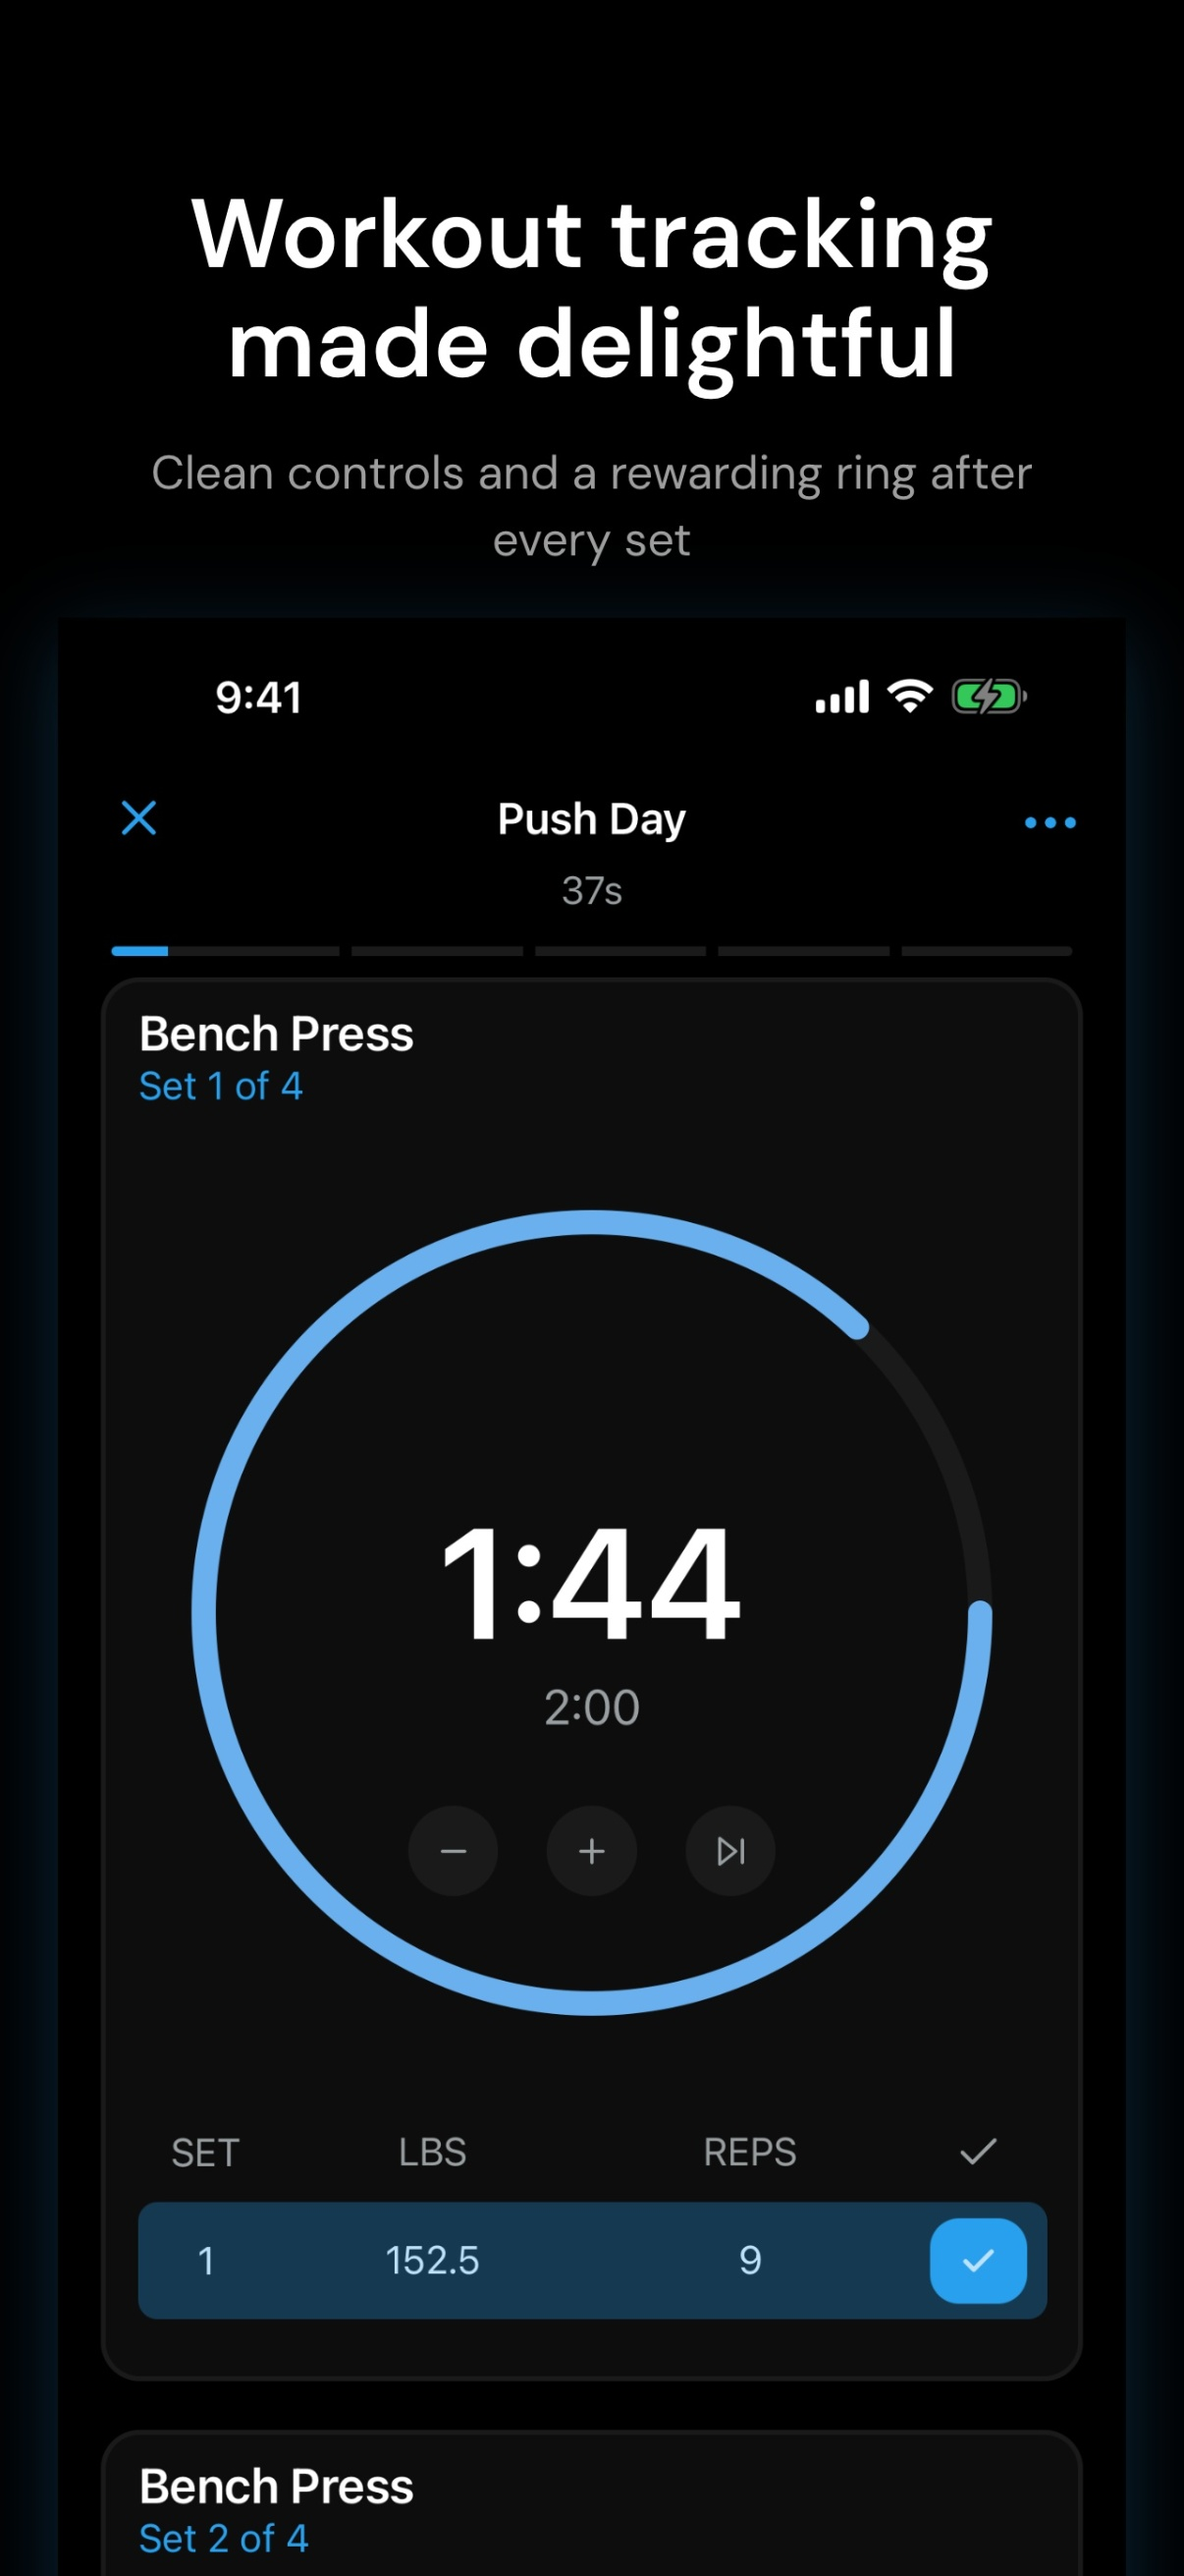
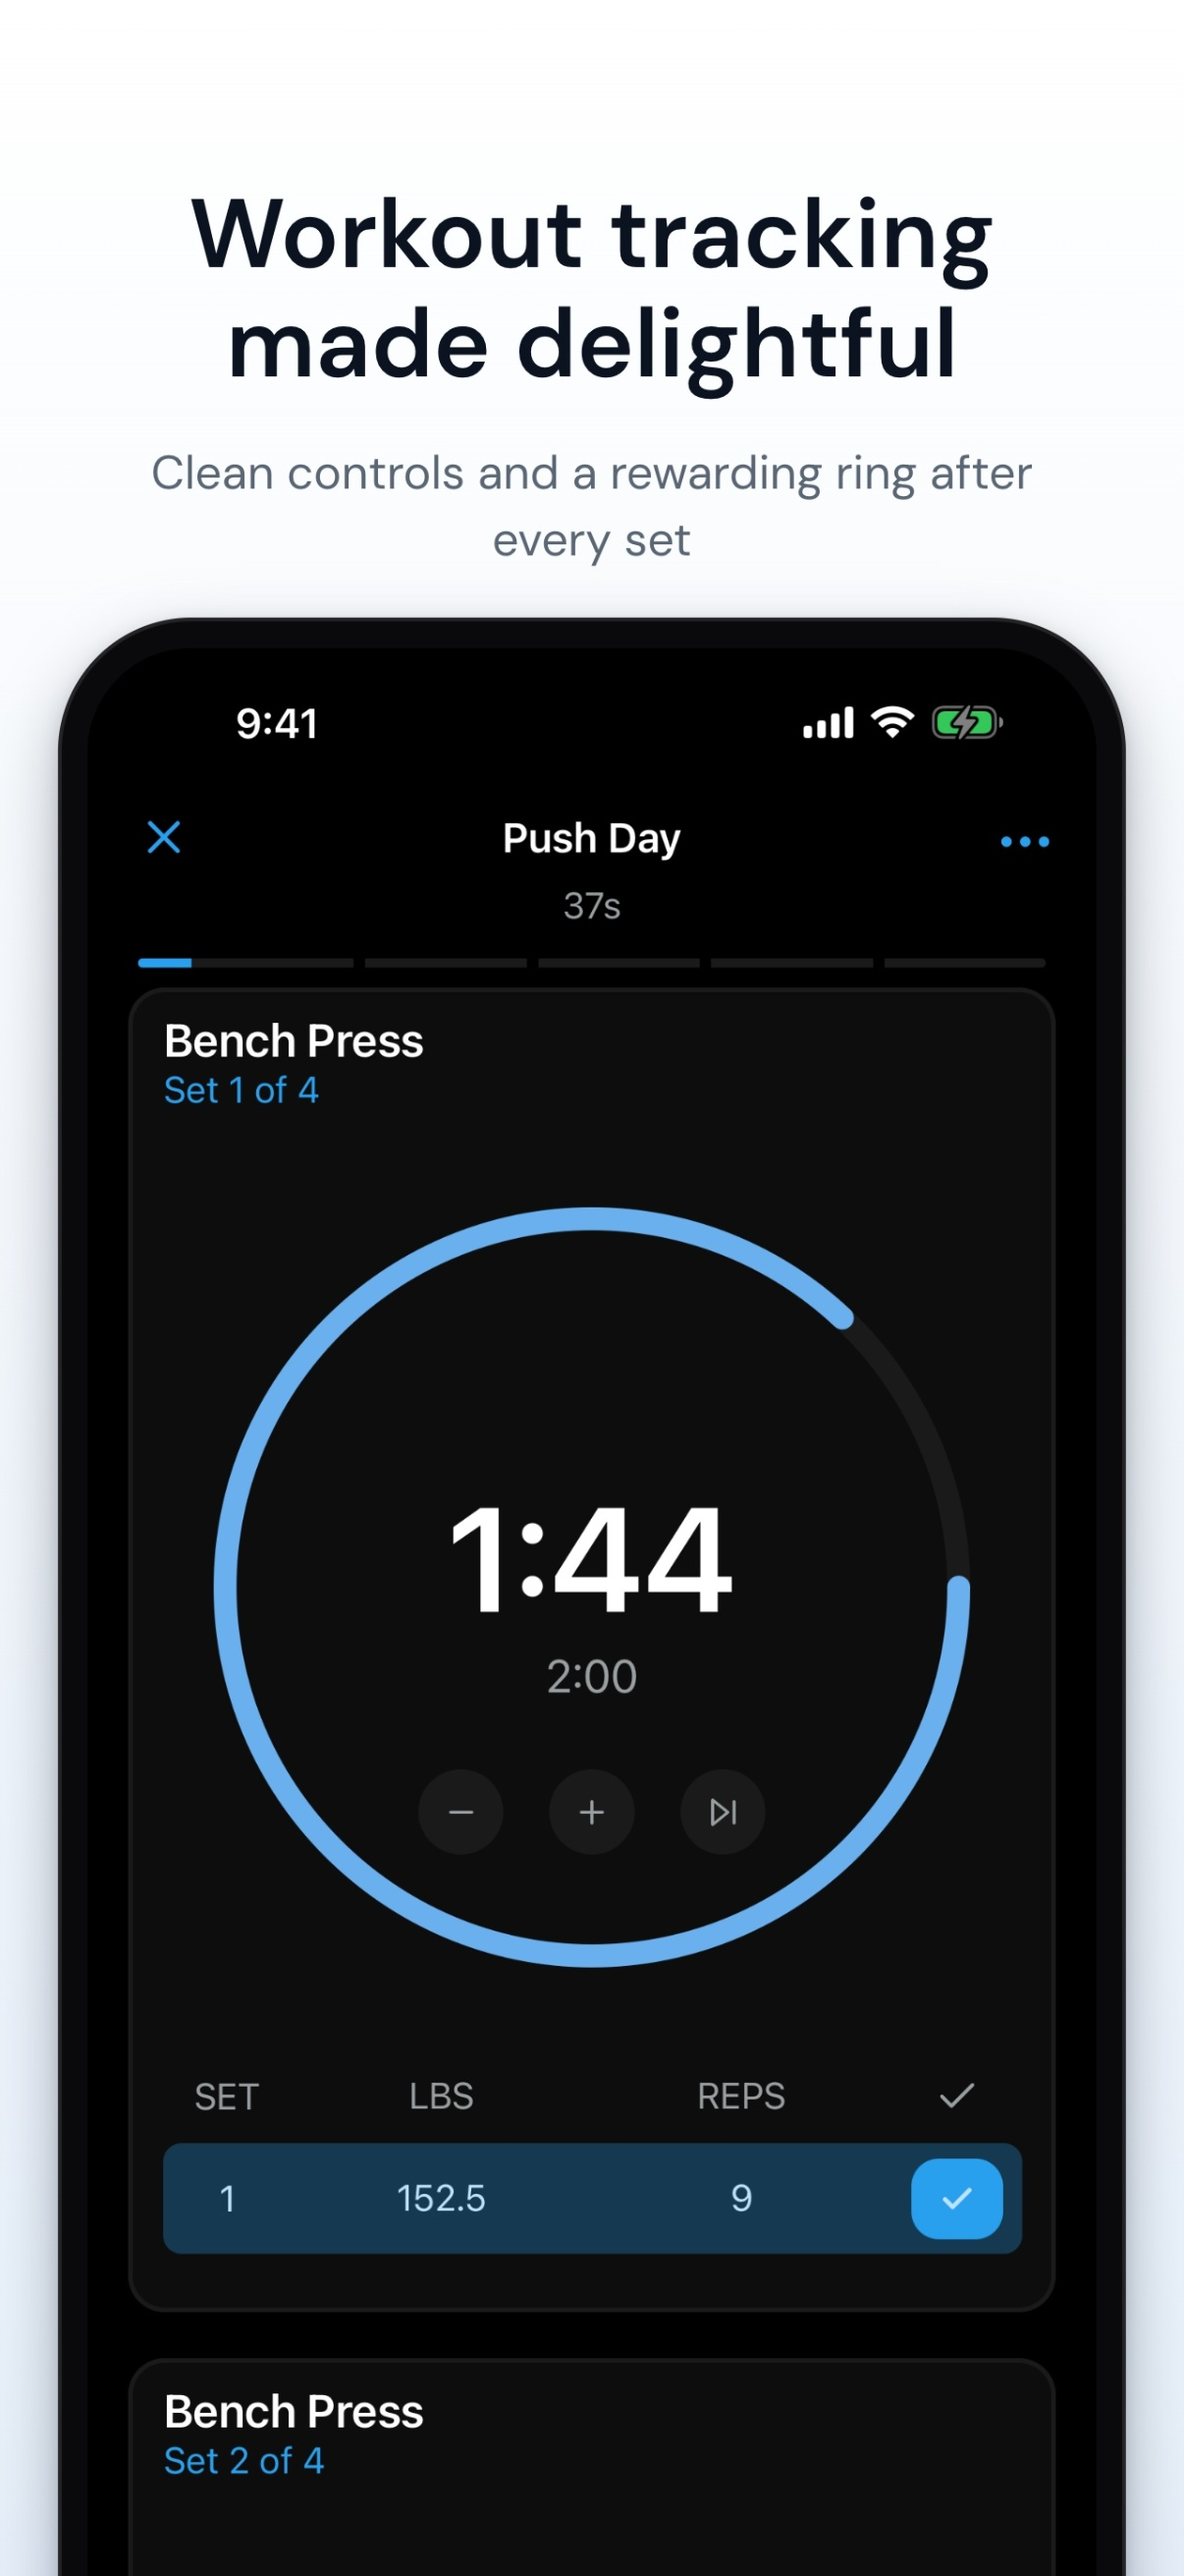
Add device bezel, light slide background, cut to four slides
Black screenshots on a black slide had no visible edge, so the device
never read as a device. Slides now use a light gradient with dark text,
and the screenshot is wrapped in a drawn bezel (simctl captures have no
bezel of their own).

Drops the Routines and Offline slides; Consistency renumbered to 4.

diff --git a/tools/app-store-screenshots/src/app/page.tsx b/tools/app-store-screenshots/src/app/page.tsx
@@ -23,11 +23,17 @@ const IPHONE_SIZES = [
 // Readloom's warm beige/olive palette.
 
 const ACCENT = "#28A0ED"; // darkColors.primaryAction
-const BG = "#000000"; // darkColors.appBackground
-const TEXT = "#ffffff"; // darkColors.primaryText
-const SUBTEXT = "rgba(255, 255, 255, 0.62)"; // muted version of darkColors.lightText
-const PHONE_FRAME = "#3F4147"; // darkColors.secondaryViewBorder — placeholder phone bezel
-const PHONE_SCREEN = "#27272F"; // darkColors.secondaryViewBackground — placeholder phone screen
+
+// The app itself is pure black, so the slide background must NOT be — a black
+// screenshot on a black slide has no visible edge. A light slide makes the
+// device read as a device and lets the blue accent carry the brand.
+const BG = "linear-gradient(180deg, #FFFFFF 0%, #E7F0FA 100%)";
+const TEXT = "#0B1220";
+const SUBTEXT = "#5B6675";
+
+const PHONE_BEZEL = "#0A0A0C"; // device body
+const PHONE_FRAME = "#3F4147"; // darkColors.secondaryViewBorder — placeholder outline
+const PHONE_SCREEN = "#27272F"; // darkColors.secondaryViewBackground — placeholder screen
 
 const SANS = "var(--font-dm-sans), -apple-system, BlinkMacSystemFont, 'Segoe UI', sans-serif";
 
@@ -165,21 +171,50 @@ function Screenshot({
     );
   }
 
+  // simctl captures are raw screen content with no bezel, so draw the device
+  // body here: a black frame with rounded corners, the screen clipped inside.
+  const bezel = width * 0.028;
+  const outerRadius = width * 0.125;
+  const innerRadius = outerRadius - bezel;
+
   return (
-    // eslint-disable-next-line @next/next/no-img-element
-    <img
-      src={src}
-      alt={label}
-      onError={() => setFailed(true)}
+    <div
       style={{
         width,
-        maxWidth: "none", // override Tailwind preflight's img { max-width: 100% }
-        height: "auto",
-        display: "block",
-        filter: `drop-shadow(0 22px 44px rgba(40, 160, 237, 0.25))`,
+        padding: bezel,
+        boxSizing: "border-box",
+        background: PHONE_BEZEL,
+        borderRadius: outerRadius,
+        boxShadow: [
+          "0 30px 70px rgba(11, 18, 32, 0.30)",
+          "0 6px 18px rgba(11, 18, 32, 0.16)",
+          `0 0 0 ${width * 0.0035}px rgba(255, 255, 255, 0.10) inset`,
+        ].join(", "),
       }}
-      draggable={false}
-    />
+    >
+      <div
+        style={{
+          borderRadius: innerRadius,
+          overflow: "hidden",
+          background: "#000",
+          lineHeight: 0,
+        }}
+      >
+        {/* eslint-disable-next-line @next/next/no-img-element */}
+        <img
+          src={src}
+          alt={label}
+          onError={() => setFailed(true)}
+          style={{
+            width: "100%",
+            maxWidth: "none", // override Tailwind preflight's img { max-width: 100% }
+            height: "auto",
+            display: "block",
+          }}
+          draggable={false}
+        />
+      </div>
+    </div>
   );
 }
 
@@ -191,9 +226,7 @@ const SCREENSHOT_FILE: Record<string, string> = {
   "live-workout": "1-live-workout",
   "log-sets": "2-log-sets",
   progress: "3-progress",
-  routines: "4-routines",
-  consistency: "5-consistency",
-  exercises: "6-exercises",
+  consistency: "4-consistency",
 };
 
 function FeatureSlide({
@@ -251,9 +284,7 @@ const SCREEN_LABELS: Record<string, string> = {
   "live-workout": "Live Workout",
   "log-sets": "Log Sets",
   progress: "Progress",
-  routines: "Routines",
   consistency: "Consistency",
-  exercises: "Exercises",
 };
 
 function renderSlide(content: SlideContent, w: number, h: number) {

diff --git a/tools/app-store-screenshots/src/translations.ts b/tools/app-store-screenshots/src/translations.ts
@@ -5,9 +5,7 @@ export type SlideId =
   | "live-workout"
   | "log-sets"
   | "progress"
-  | "routines"
-  | "consistency"
-  | "exercises";
+  | "consistency";
 
 export type SlideContent = {
   id: SlideId;
@@ -36,21 +34,9 @@ export const SLIDES: SlideContent[] = [
     subhead: "Watch your strength climb across reps, weight, and rest",
   },
   {
-    id: "routines",
-    label: "4 · Routines",
-    headline: "Build routines that fit you",
-    subhead: "Reorder, tweak sets, and start lifting in seconds",
-  },
-  {
     id: "consistency",
-    label: "5 · Consistency",
+    label: "4 · Consistency",
     headline: "Momentum you don't want to break",
     subhead: "Streaks and history that keep you coming back",
-  },
-  {
-    id: "exercises",
-    label: "6 · Exercises",
-    headline: "Works entirely offline",
-    subhead: "Your training data never leaves your phone",
   },
 ];
